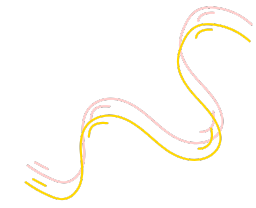
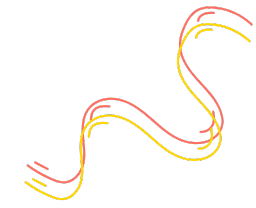
fixing slider and about page

diff --git a/index.html b/index.html
@@ -129,12 +129,11 @@
 							<!--Animated Block-->
 							<div class="vlt-animated-block text-center"
 							style="animation-delay:0s; animation-duration:700ms;">
-							<h4 class="vlt-display-1 has-blue-color">Karlina Fithrian</h5>
+							<h4 class="vlt-display-1 has-navy-color">Karlina Fithrian</h5>
 							<div class="vlt-gap-10"></div>
-							<h1 class="vlt-large-heading has-blue-color">Web Developer</h1>
+							<h1 class="vlt-large-heading has-navy-color">Web Developer</h1>
 							<div class="vlt-gap-20"></div>
-							<h4 class="vlt-display-1 has-blue-color">Bridging marketing and technology
-								skills,<br> to create engaging digital experiences.</h5>
+							<h4 class="vlt-display-1 has-navy-color">Combining creativity and technical expertise to build impactful and user-centric digital experiences.</h5>
 							<div class="vlt-gap-10"></div>
 							<!-- <div class="row">
 								<div class="col-auto"> -->
@@ -151,7 +150,7 @@
 									</div>
 								</div>
 							</div> -->
-							<div class="vlt-gap-40"></div><a class="vlt-link has-blue-color" href="#">Watch Resume</a>
+							<div class="vlt-gap-40"></div><a class="vlt-link has-navy-color" href="#">Watch Resume</a>
 						</div>
 							<!-- <div class="row">
 								<div class="col-lg-7 offset-lg-1">
@@ -183,8 +182,7 @@
 									<!--Animated Block-->
 									<div class="vlt-animated-block"
 										style="animation-delay:0s; animation-duration:700ms;" align="justify">
-										<h4 class="has-blue-color">I am Karlina Fithrian, a Marketing Executive with a strong <span class="has-first-color">interest in technology,</span>
-											particularly in innovating to develop my skills in using various marketing technology tools to achieve business goals.</h4>
+										<h5 class="has-navy-color">I’m Karlina Fithrian, a web developer. I enjoy building responsive, user-friendly websites. <span class="has-coral-color">With a strong interest in continuous learning,</span> I’m eager to contribute to projects that combine creativity and functionality, delivering engaging digital experiences. </h5>
 										
 									</div>
 								</div>
@@ -859,7 +857,7 @@
 			<!--Progress Bar-->
 			<ul class="vlt-fullpage-slider-progress-bar">
 				<li data-menuanchor="Home"></li>
-				<li data-menuanchor="About Me"></li>
+				<li data-menuanchor="AboutMe"></li>
 				<li data-menuanchor="Services"></li>
 				<li data-menuanchor="Experience"></li>
 				<li data-menuanchor="Educations"></li>
@@ -875,7 +873,7 @@
 		<footer class="vlt-footer vlt-footer--fixed">
 			<!--Copyright-->
 			<div class="vlt-footer-copyright">
-				<p>&copy; 2024 Copiright.<br>Karlina Fithrian.</p>
+				<p>&copy; 2024 Copyright.<br>Karlina Fithrian.</p>
 			</div>
 		</footer>
 	</main>

diff --git a/assets/css/custom.css b/assets/css/custom.css
@@ -63,3 +63,93 @@
 	width: 389px;
 	height: 550px;
 }
+
+.has-yellow-color {
+	color: #FFD700;
+}
+
+.has-coral-color {
+	color: #FF6F61;
+}
+
+.has-navy-color {
+	color: #1B263B;
+}
+
+.vlt-fullpage-slider-numbers
+{
+    font-size: 1.25rem;
+    font-weight: 700;
+
+    position: fixed;
+    z-index: 25; 
+    right: 0;
+    bottom: 0;
+
+    display: -webkit-box;
+    display: -webkit-flex;
+    display: -ms-flexbox;
+    display:         flex;
+            flex-direction: column;
+
+    width: 6.25rem;
+    height: 6.25rem;
+
+    letter-spacing: -.01em;
+
+    color: #fff;
+    border-top-left-radius: 8px;
+    background-color: #1B263B;
+
+    -webkit-box-align: center;
+    -webkit-align-items: center;
+    -ms-flex-align: center;
+            align-items: center;
+    -webkit-box-pack: center;
+    -webkit-justify-content: center;
+    -ms-flex-pack: center;
+            justify-content: center;
+    -webkit-box-orient: vertical;
+    -webkit-box-direction: normal;
+    -webkit-flex-direction: column;
+        -ms-flex-direction: column;
+}
+
+.is-light .vlt-fullpage-slider-progress-bar li
+{
+    background-color: rgba(255, 255, 255, .1);
+}
+.vlt-fullpage-slider-progress-bar li::before
+{
+    position: absolute;
+    top: 0;
+    left: 0;
+
+    display: block;
+
+    width: 2px;
+    height: 20px;
+
+    content: '';
+    -webkit-transition: height 0s, background-color 300ms cubic-bezier(.46, .03, .52, .96);
+            transition: height 0s, background-color 300ms cubic-bezier(.46, .03, .52, .96); 
+
+    background-color: #1B263B;
+}
+
+/* FOOTER COPYRIGHT
+-------------------------------------------- */
+.vlt-footer-copyright
+{
+    pointer-events: auto; 
+
+    color: #1B263B;
+}
+.is-light .vlt-footer-copyright
+{
+    color: #fff;
+}
+.vlt-footer-copyright p
+{
+    margin-bottom: 0;
+}
